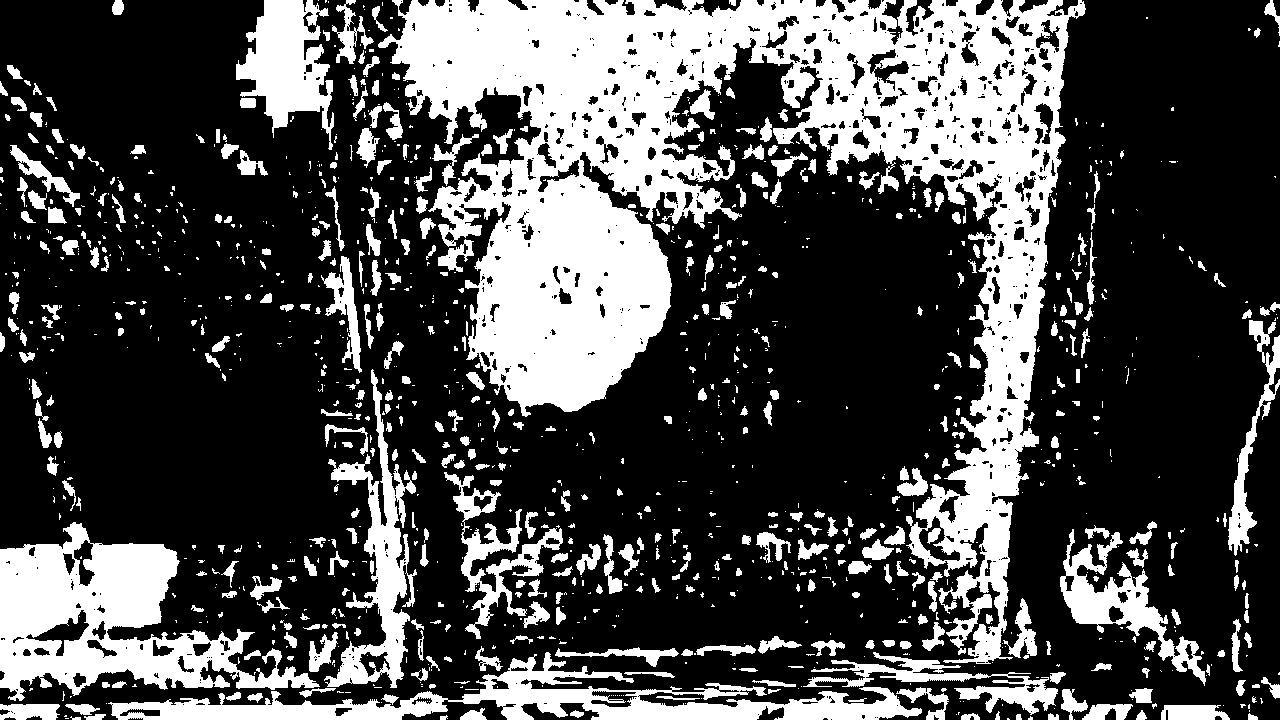
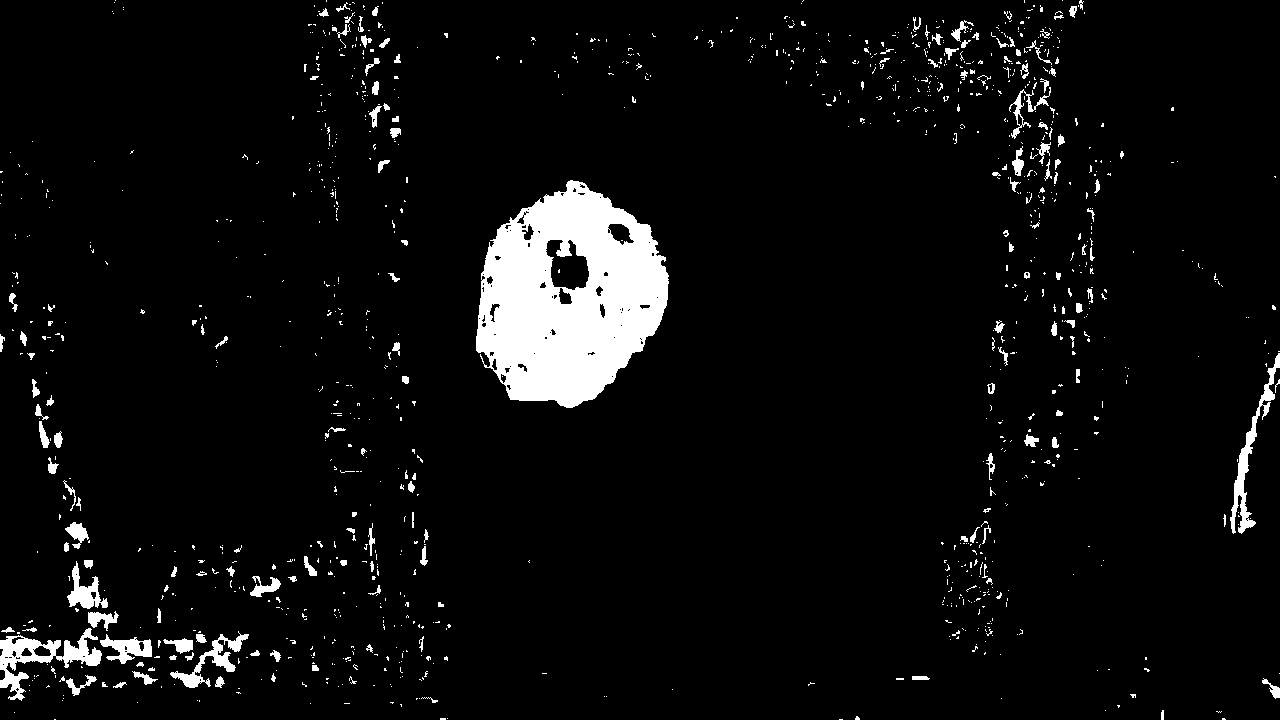
Vision

diff --git a/Vision/vision.cpp b/Vision/vision.cpp
@@ -5,7 +5,7 @@
 
 
 #define meanGValue 100
-#define threshVal 50
+#define threshVal 5
 #define PI 3.14
 cv::RNG rng(12345);
 
@@ -167,9 +167,9 @@ void Vision::preProcessing()
 
     //Convert image to BW depending on Red channel values only
     Mat imgBW;
-    vector<Mat> bgr_planes;
-    split( _imgNew, bgr_planes );
-    threshold(bgr_planes.at(0), imgBW, threshVal, 255,cv::THRESH_BINARY_INV );
+    vector<Mat> hsv_planes;
+    split( _imgHSV, hsv_planes );
+    threshold(hsv_planes.at(0), imgBW, threshVal, 255,cv::THRESH_BINARY_INV );
     imwrite("BWImage.jpg",imgBW);
 
     //Perform morphological operation of eroding
